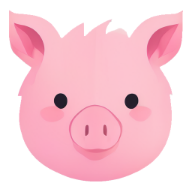
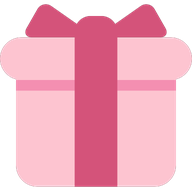
Hide NotificationBanner (#11)
* hide NotificationBanner

* prettify index.html

* update logo

diff --git a/src/App.jsx b/src/App.jsx
@@ -3,7 +3,6 @@ import { ToastContainer } from "react-toastify";
 import styled from "styled-components";
 
 import { AppShell } from "@p2p-gifts/components/Containers";
-import NotificationBanner from "@p2p-gifts/components/NotificationBanner";
 import ThemeToggleButton from "@p2p-gifts/components/ThemeToggleButton";
 import { StoreContext, WIZARD_STEP } from "@p2p-gifts/contexts/Store";
 import CreateWallet from "@p2p-gifts/pages/CreateWallet";
@@ -98,7 +97,6 @@ function App() {
     <AppWrapper>
       {activeStep !== WIZARD_STEP.WELCOME ? <ThemeToggleButton fixed /> : null}
       <AppShell>
-        <NotificationBanner />
         {activeStep === WIZARD_STEP.WELCOME ? (
           <WelcomeScroll>
             <Welcome />

diff --git a/index.html b/index.html
@@ -50,10 +50,7 @@
       name="twitter:title"
       content="p2p.gifts | P2P Crypto Gifts — Gift Cards with QR Code"
     />
-    <meta
-      name="twitter:image"
-      content="https://p2p.gifts/preview.png"
-    />
+    <meta name="twitter:image" content="https://p2p.gifts/preview.png" />
     <meta
       name="twitter:description"
       content="P2P crypto gifting wizard in the browser: create a seedless, disposable gift wallet, fund it, and share a branded gift card with QR code. No signup, no app install."
